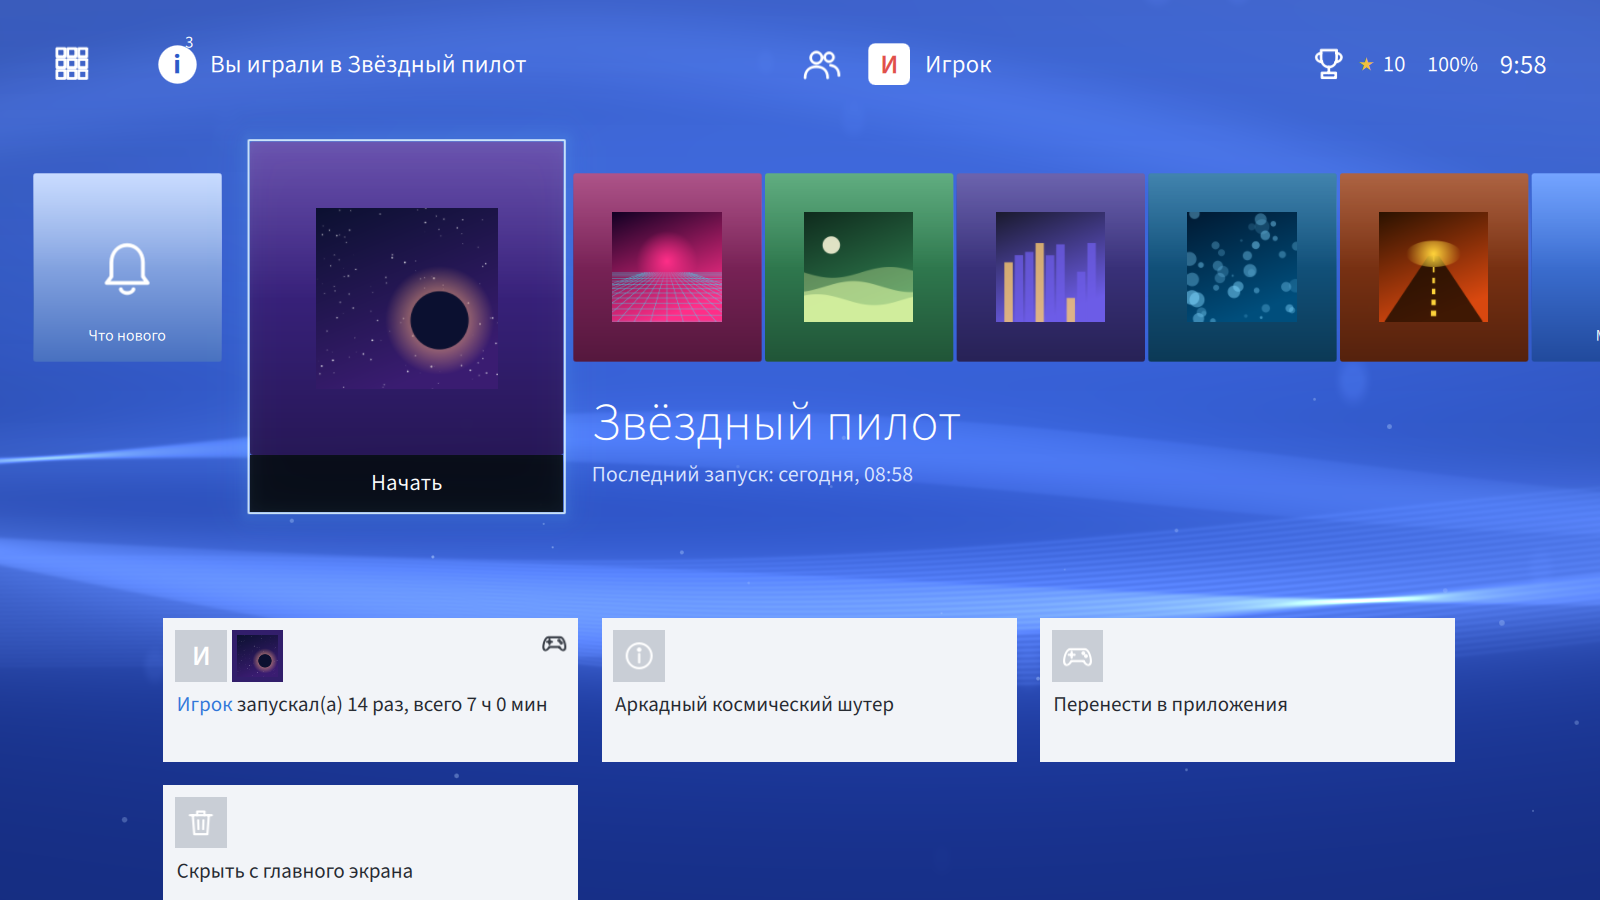
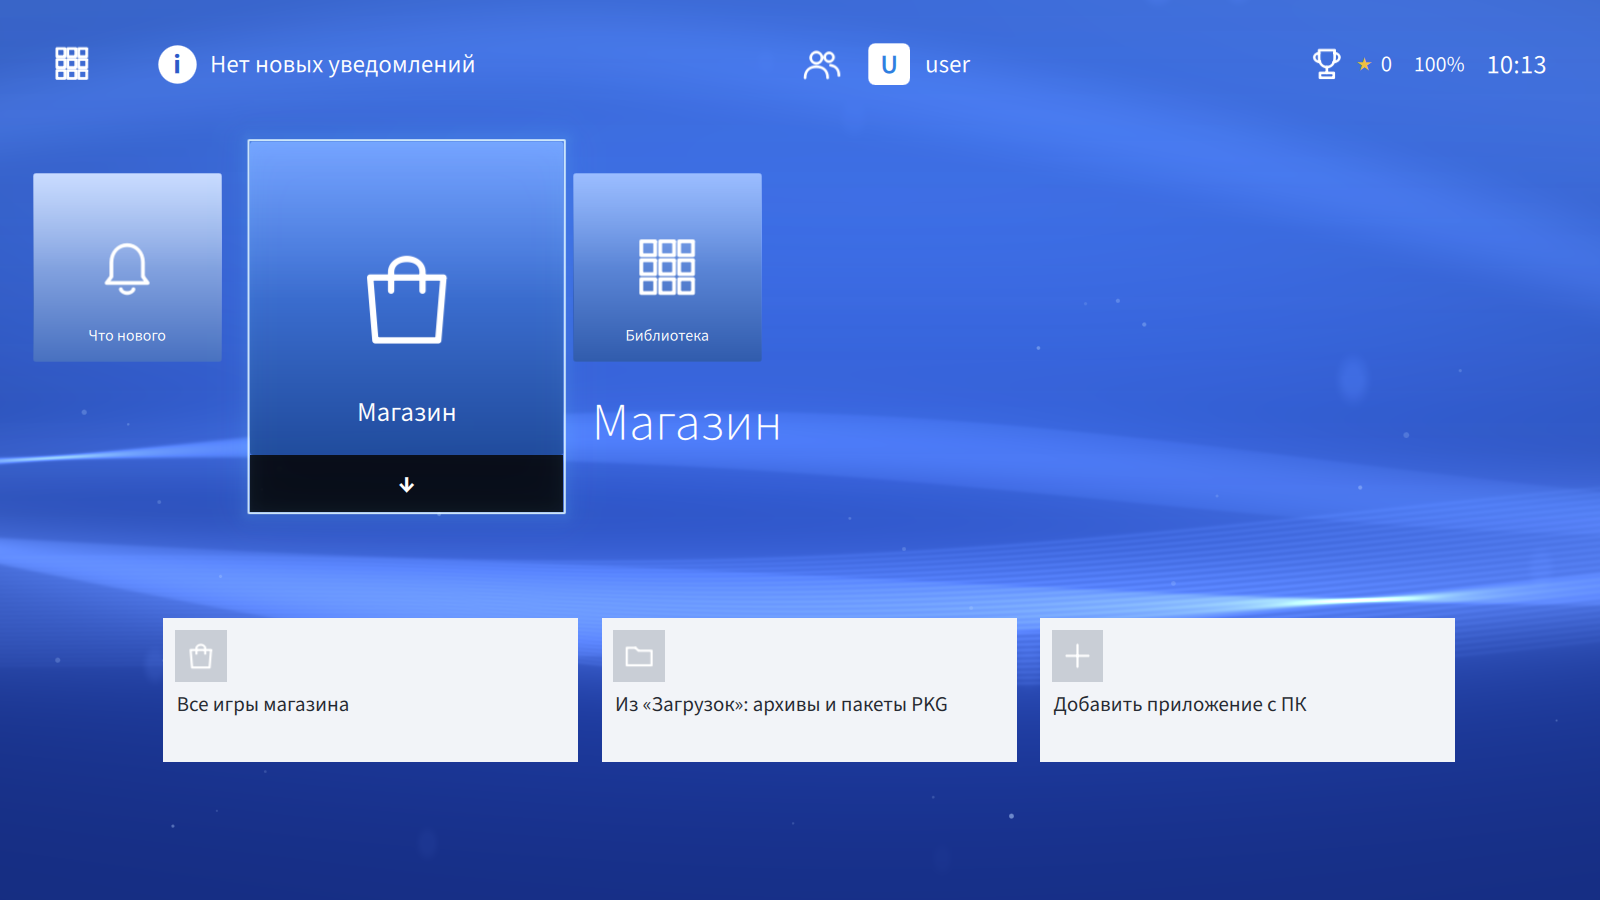
Новые скриншоты (чистая установка), карточки плитки «Магазин»

diff --git a/Main.qml b/Main.qml
@@ -819,6 +819,11 @@ Window {
                          icon: x.icon, act: "launch:" + x.id }
             })
         }
+        if (it.id === "__store") return [
+            { title: "Все игры магазина", sym: "store", act: "store:0" },
+            { title: "Из «Загрузок»: архивы и пакеты PKG", sym: "folder", act: "store:2" },
+            { title: "Добавить приложение с ПК", sym: "list-add", act: "store:4" }
+        ]
         if (it.id === "__lib") return [
             { title: "Игры — " + stats.games, sym: "applications-games", act: "lib:0" },
             { title: "Приложения — " + stats.apps, sym: "view-list-icons", act: "lib:1" },
@@ -2896,6 +2901,7 @@ Window {
             overlay = ""
             launchItem(target); return
         case "lib": openLibrary(+p[1]); return
+        case "store": openStore(); storeCat = +p[1]; storeIdx = 0; storeZone = storeCat === 4 || !storeModel.length ? "side" : "grid"; return
         case "info":
             menuTarget = it; infoData = backend.appInfo(it.id); overlay = "info"; play("open"); return
         case "togglegame":

diff --git a/README.md b/README.md
@@ -13,15 +13,16 @@
     <td><img src="docs/screenshots/home-func.png" alt="Верхний ряд функций"><br><sub>Верхний ряд функций</sub></td>
   </tr>
   <tr>
+    <td><img src="docs/screenshots/boot.png" alt="Заставка"><br><sub>Заставка</sub></td>
     <td><img src="docs/screenshots/store.png" alt="Магазин"><br><sub>Магазин</sub></td>
-    <td><img src="docs/screenshots/library.png" alt="Библиотека"><br><sub>Библиотека</sub></td>
   </tr>
   <tr>
-    <td colspan="2" align="center"><img src="docs/screenshots/trophies.png" alt="Достижения" width="50%"><br><sub>Достижения игры</sub></td>
+    <td><img src="docs/screenshots/trophies.png" alt="Достижения"><br><sub>Достижения</sub></td>
+    <td><img src="docs/screenshots/settings.png" alt="Настройки"><br><sub>Настройки</sub></td>
   </tr>
 </table>
 
-<sub>На скриншотах демо-игры с придуманными названиями и обложками.</sub>
+<sub>Скриншоты сделаны на чистой установке, без игр.</sub>
 
 ---
 
